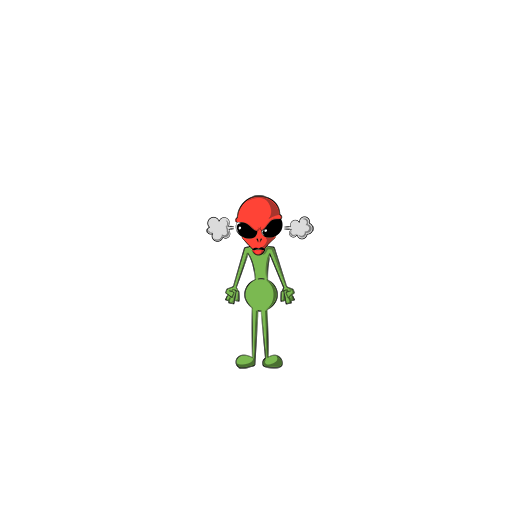
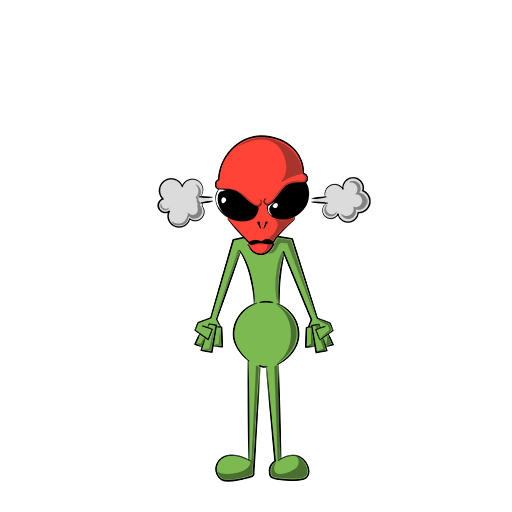
Update strip download - Fix angry image - cleanup panel download

Changed region(s): [[0.3125, 0.25, 0.75, 0.9688]]

diff --git a/scripts/detail.js b/scripts/detail.js
@@ -23,20 +23,52 @@ function GetShareMessage() {
 	return `Check out my comic strip "${comicTitle}" from Zeta Comic Generator. Easily create unique comic strips with the help of OpenAI models and hand drawn character art.`;
 }
 
-async function RenderPanelsForDownload() {
+async function RenderStripForDownload() {
 	const strip = document.getElementById('strip');
 	const output = document.getElementById('strip-output');
-	// const testout = document.getElementById('output');
 	if(!strip || !output) return;
 
-	//strip.classList.add("capture");
-	// let idx = 1;
+	output.innerHTML = strip.outerHTML;
+	output.querySelector('#strip-title').remove();
+	output.querySelectorAll('.strip-controls button').forEach((button) => button.remove());
+
+	let link = document.createElement('a');
+	let canvas = await html2canvas(output);
+
+	// document.getElementById('output').appendChild(canvas);
+	let ctx = canvas.getContext("2d");
+	ctx.resetTransform();
+
+	ctx.fillStyle = 'black';
+	ctx.textAlign = 'right';
+	ctx.font = 'bold 20px sans-serif';
+	ctx.fillText(window.location.host, 1028, 370);
+	// ctx.fillText("greenzeta.com/project/zetacomicgenerator", 905, 335);
+
+	ctx.textAlign = 'left';
+	ctx.fillText(window.stripData.script.title, 15, 370);
+
+	ctx.font = 'normal 14px sans-serif';
+	ctx.fillText('\u201C' + window.stripData.prompt + '\u201D', 15, 390);
+
+	let uri = canvas.toDataURL();
+	link.download = window.stripData.script.title.replaceAll(' ', '_') + '.png';
+	link.href = uri;
+	link.click();
+	output.innerHTML = "";
+	output.innerHTML = "";
+}
+
+async function RenderPanelsForDownload() {
+	const output = document.getElementById('strip-output');
+	if(!output) return;
+
 	for(let idx = 1; idx <= 3; idx++){
 		output.innerHTML = document.getElementById('panel'+idx).outerHTML;
 		let link = document.createElement('a');
 		let canvas = await html2canvas(output);
 		
-		// testout.appendChild(canvas);
+		// document.getElementById('output').appendChild(canvas);
 		let ctx = canvas.getContext("2d");
 		ctx.resetTransform();
 		ctx.strokeStyle = 'black';
@@ -49,18 +81,16 @@ async function RenderPanelsForDownload() {
 			ctx.strokeText(window.stripData.script.title, 10, 498);
 			ctx.fillText(window.stripData.script.title, 10, 498);
 		}else if(idx === 3){
-			strip.classList.remove("capture");
 			ctx.textAlign = 'right';
 			ctx.strokeText(window.location.host, 498, 498);
 			ctx.fillText(window.location.host, 498, 498);
-			// ctx.strokeText("greenzeta.com/project/zetacomicgenerator", 290, 290);
-			// ctx.fillText("greenzeta.com/project/zetacomicgenerator", 290, 290);
 		}
 
 		let uri = canvas.toDataURL();
 		link.download = window.stripData.script.title.replaceAll(' ', '_') + '_' + idx + '.png';
 		link.href = uri;
 		link.click();
+		output.innerHTML = "";
 	}
 }
 

diff --git a/style.css b/style.css
@@ -847,22 +847,33 @@ progress[value]::-webkit-progress-value {
 	left: 150%;
 }
 
-#strip-output .panel {
+#strip-output > .panel {
 	width: 504px;
     height: 504px;
     margin: 0;
     border-width: 4px;
 }
 
-#strip-output .panel .bubble {
+#strip-output > .panel .bubble {
     font-size: 24px;
     border-radius: 30px;
     padding: 10px 20px;
 }
 
-#strip-output .panel .bubble-container {
+#strip-output > .panel .bubble-container {
 	padding: 10px;
 	width: calc(100% - 20px);
+}
+
+#strip-output > #strip {
+	width: 1024px;
+	max-width: none;
+	box-shadow: none;
+	padding-bottom: 16px;
+}
+
+#strip-output > #strip .panel .bubble {
+	font-size: 15px;
 }
 
 .bubble {
